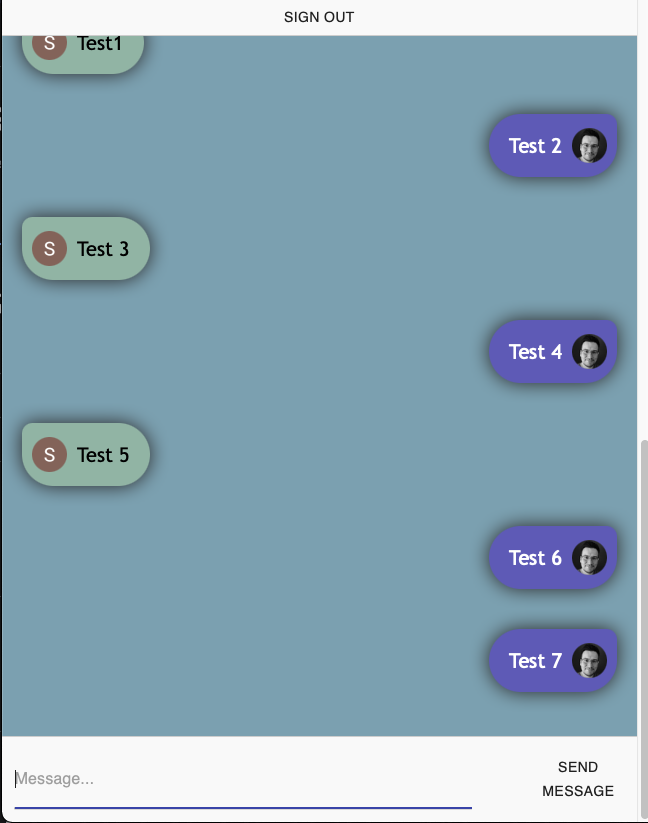
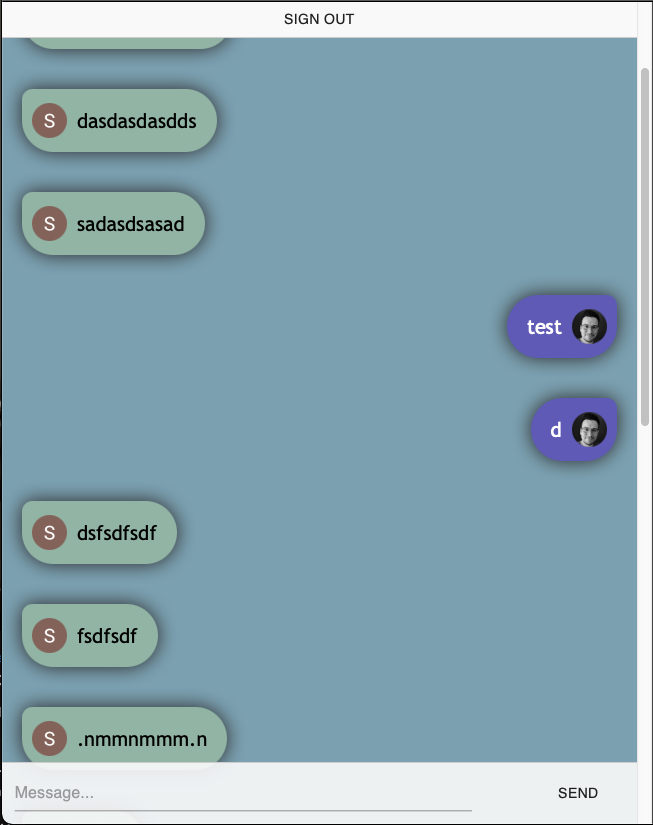
Minor typo updates

Changed region(s): [[0.0, 0.0, 1.0, 1.0]]

diff --git a/src/components/SendMessage.js b/src/components/SendMessage.js
@@ -31,7 +31,7 @@ function SendMessage({ scroll }) {
             placeholder="Message..."
           />
           <Button className="submitButton" type="submit">
-            Send Message
+            SEND
           </Button>
         </div>
       </form>
